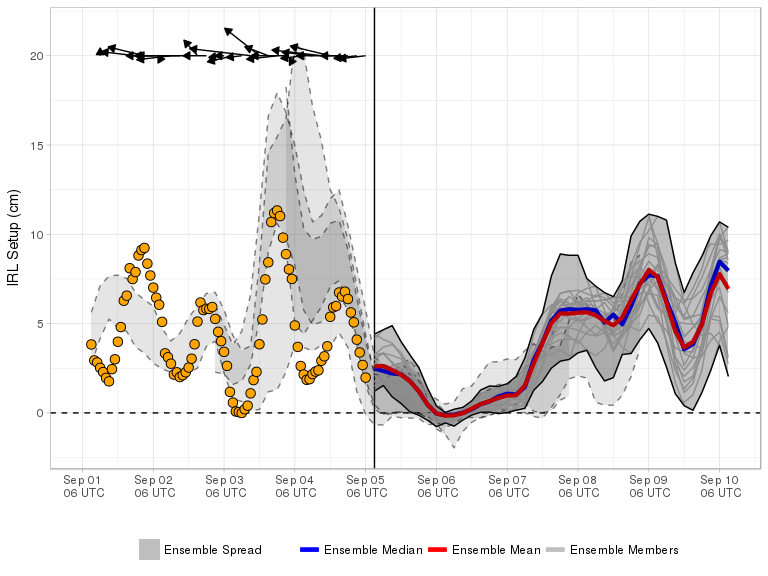
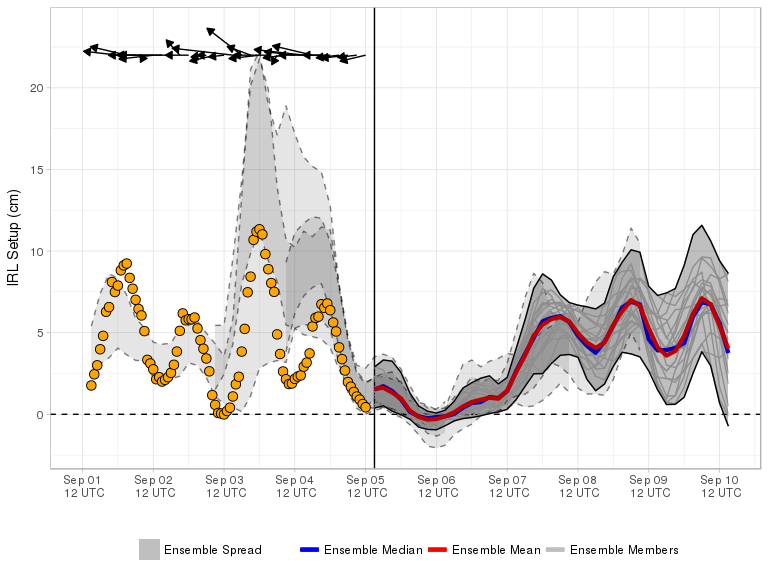
Forecast Update

diff --git a/docs/index.md b/docs/index.md
@@ -1,9 +1,9 @@
-Current Forecast 2018-09-05, Cycle 00 UTC
+Current Forecast 2018-09-05, Cycle 06 UTC
 -----------------------------------------
 
 [![](img/raw_setup.png)](https://fit-winds.github.io/IRLSetup/img/raw_setup.png)
 
-> Forecast valid 2018-09-05 02:24:32.
+> Forecast valid 2018-09-05 08:29:17.
 
 Explanation
 -----------
@@ -23,7 +23,7 @@ Ensemble Forecast System
 cycles. Calculation of the IRL setup is performed shortly after a new
 GEFS cycle is made available on the [data access
 link](http://www.ftp.ncep.noaa.gov/data/nccf/com/gens/prod/). The
-current cycle 2018-09-05 00 UTC 0.5° GEFS mean and median forecasts of
+current cycle 2018-09-05 06 UTC 0.5° GEFS mean and median forecasts of
 setup are represented by the red and blue curves, respectively. Ensemble
 spread from the current and three previous GEFS runs are shaded grey and
 bounded by solid and dashed curves, respectively.
